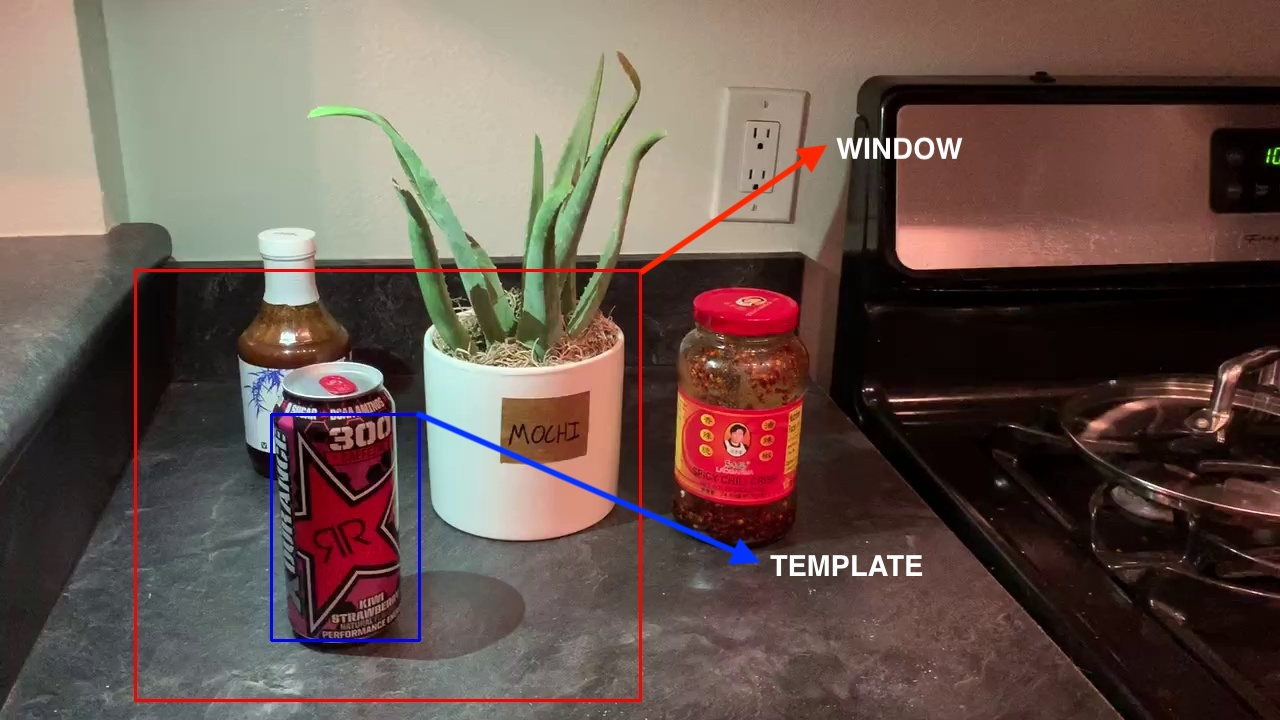
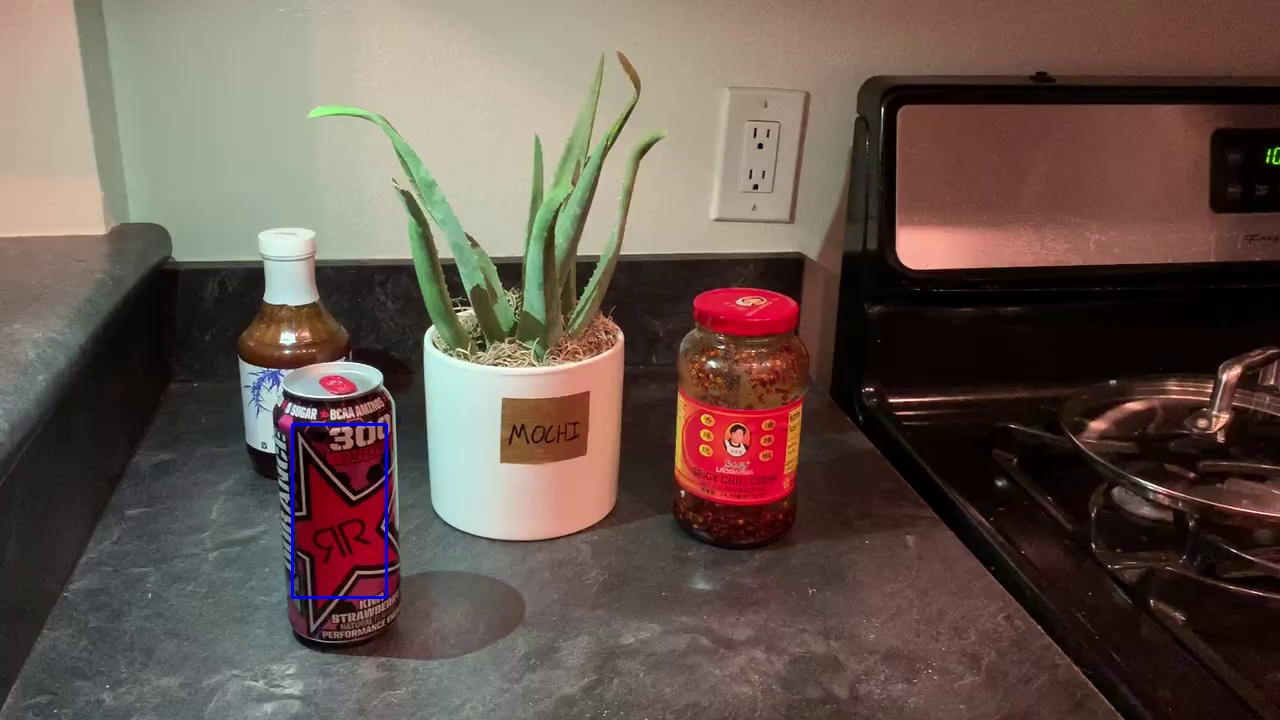
Refactored the code a bit and updated templates

diff --git a/hw2.py b/hw2.py
@@ -13,12 +13,8 @@ import numpy as np
 from matplotlib import pyplot as plt
 import sys
 
-def warpImg(img, xshift, yshift):
-    return 
-
-
 def main():
-    cap = cv2.VideoCapture('IMG_0961.MOV')
+    cap = cv2.VideoCapture('IMG_0955.MOV')
  
     # Check if camera opened successfully
     if (cap.isOpened()== False): 
@@ -31,32 +27,34 @@ def main():
     frames = []
     tl = []
     f0 = []
+    cnt = 0
+    method = eval('cv2.TM_CCOEFF_NORMED')
+
     # Read until video is completed
     while(cap.isOpened()):
         # # Capture frame-by-frame
         ret, f = cap.read()
 
         if ret == True:
-            frame = cv2.cvtColor(f, cv2.COLOR_BGR2GRAY)
-            # Display the resulting frame
-            #cv2.imshow('Frame',frame)
-            img = frame
-            template = cv2.imread('template5.png',0)
+            img = cv2.cvtColor(f, cv2.COLOR_BGR2GRAY)
+            template = cv2.imread('template_new.png',0)
             w, h = template.shape[::-1]
             print("{},{}".format(w,h))
 
-            meth = 'cv2.TM_CCOEFF_NORMED'
-            method = eval(meth)
-            # Apply template Matching
             # window bounds in the old movie
-            #img[270:700,135:640]
+            # Rockstar
+            tlx, tly, brx, bry = 270, 135, 700, 640
+            # Mochi
+            #tlx, tly, brx, bry = 200, 300, 600, 800
             # window bounds in the new movie
-            tlx, tly, brx, bry = 150, 300, 540, 700
-            print(img.shape)
-            print(template.shape)
+            #tlx, tly, brx, bry = 150, 300, 540, 700
+
+            # if no window is used
+            #res = cv2.matchTemplate(img,template,method)
             res = cv2.matchTemplate(img[tlx:brx, tly:bry],template,method)
             min_val, max_val, min_loc, max_loc = cv2.minMaxLoc(res)
-            top_left = (max_loc[0]+tlx, max_loc[1]+tly)
+            top_left = (max_loc[0]+tly, max_loc[1]+tlx)
+            # if no window is used
             #top_left = (max_loc[0], max_loc[1])
             if len(tl) == 0:
                 tl += [top_left[0], top_left[1]]
@@ -70,29 +68,22 @@ def main():
             locs_y.append(top_left[1])
             print(top_left)
             print(bottom_right)
-            #cv2.rectangle(img,(135,270), (640,700), 255, 2)
-            '''
-            cv2.rectangle(img,top_left, bottom_right, 255, 2)
-            #cv2.rectangle(f,(135,270), (640,700), (0,0,255), 2)
-            #cv2.rectangle(f,top_left, bottom_right, (255,0,0), 2)
-            #cv2.imwrite("annotated_im.jpg", f)
-            #sys.exit(1)
-            #plt.subplot(121)
-            #plt.imshow(f)
-            plt.imshow(res,cmap = 'gray')
-            plt.xlabel("Pixel location in X Direction")
-            plt.ylabel("Pixel location in Y Direction")
-            plt.colorbar()'''
-            '''plt.title('Matching Result') #, plt.xticks([]), plt.yticks([])
-            plt.subplot(122),plt.imshow(img,cmap = 'gray')
-            plt.title('Detected Point'), plt.xticks([]), plt.yticks([])
-            plt.suptitle(meth)'''
-            #plt.savefig('cross_cor.png')
-            '''
-            plt.show()
-            #cv2.waitKey(0) #Press Enter for Next Object in the Image
-            sys.exit()
-            '''
+
+            if cnt == 0:
+                cv2.imwrite("gray0.png", img)
+                try:
+                    #cv2.rectangle(f,(tly,tlx), (bry,brx), (0,0,255), 2)
+                    cv2.rectangle(f,top_left, bottom_right, (255,0,0), 2)
+                    cv2.imwrite("annotated_im.jpg", f)
+                except:
+                    pass
+                plt.imshow(res,cmap = 'gray')
+                plt.xlabel("Pixel location in X Direction")
+                plt.ylabel("Pixel location in Y Direction")
+                plt.colorbar()
+                plt.savefig('cross_cor.png')
+                plt.clf()
+            cnt += 1
         else: 
             break
 
@@ -105,19 +96,15 @@ def main():
     plt.plot(locs_x, locs_y)
     plt.ylabel("Y Pixel Shift")
     plt.xlabel("X Pixel Shift")
-    #plt.show()
-    #plt.savefig("shifts.png")
+    plt.savefig("shifts.png")
     npavg = np.average(frames, axis=0)
     print(npavg)
-    # So it appears good in the displayed image
-    cv2.imshow("Shifted", np.sum(frames, axis=0) * 3)
-    # What's actually written should involve the average of the pixels
     cv2.imwrite("shifted.png", npavg)
-    print(f0)
+    '''print(f0)
     print(npavg.shape)
     print(f0.shape)
     cv2.imshow("Og", f0)
-    cv2.waitKey(0)
+    cv2.waitKey(0)'''
 
 if __name__ == "__main__":
     main()
